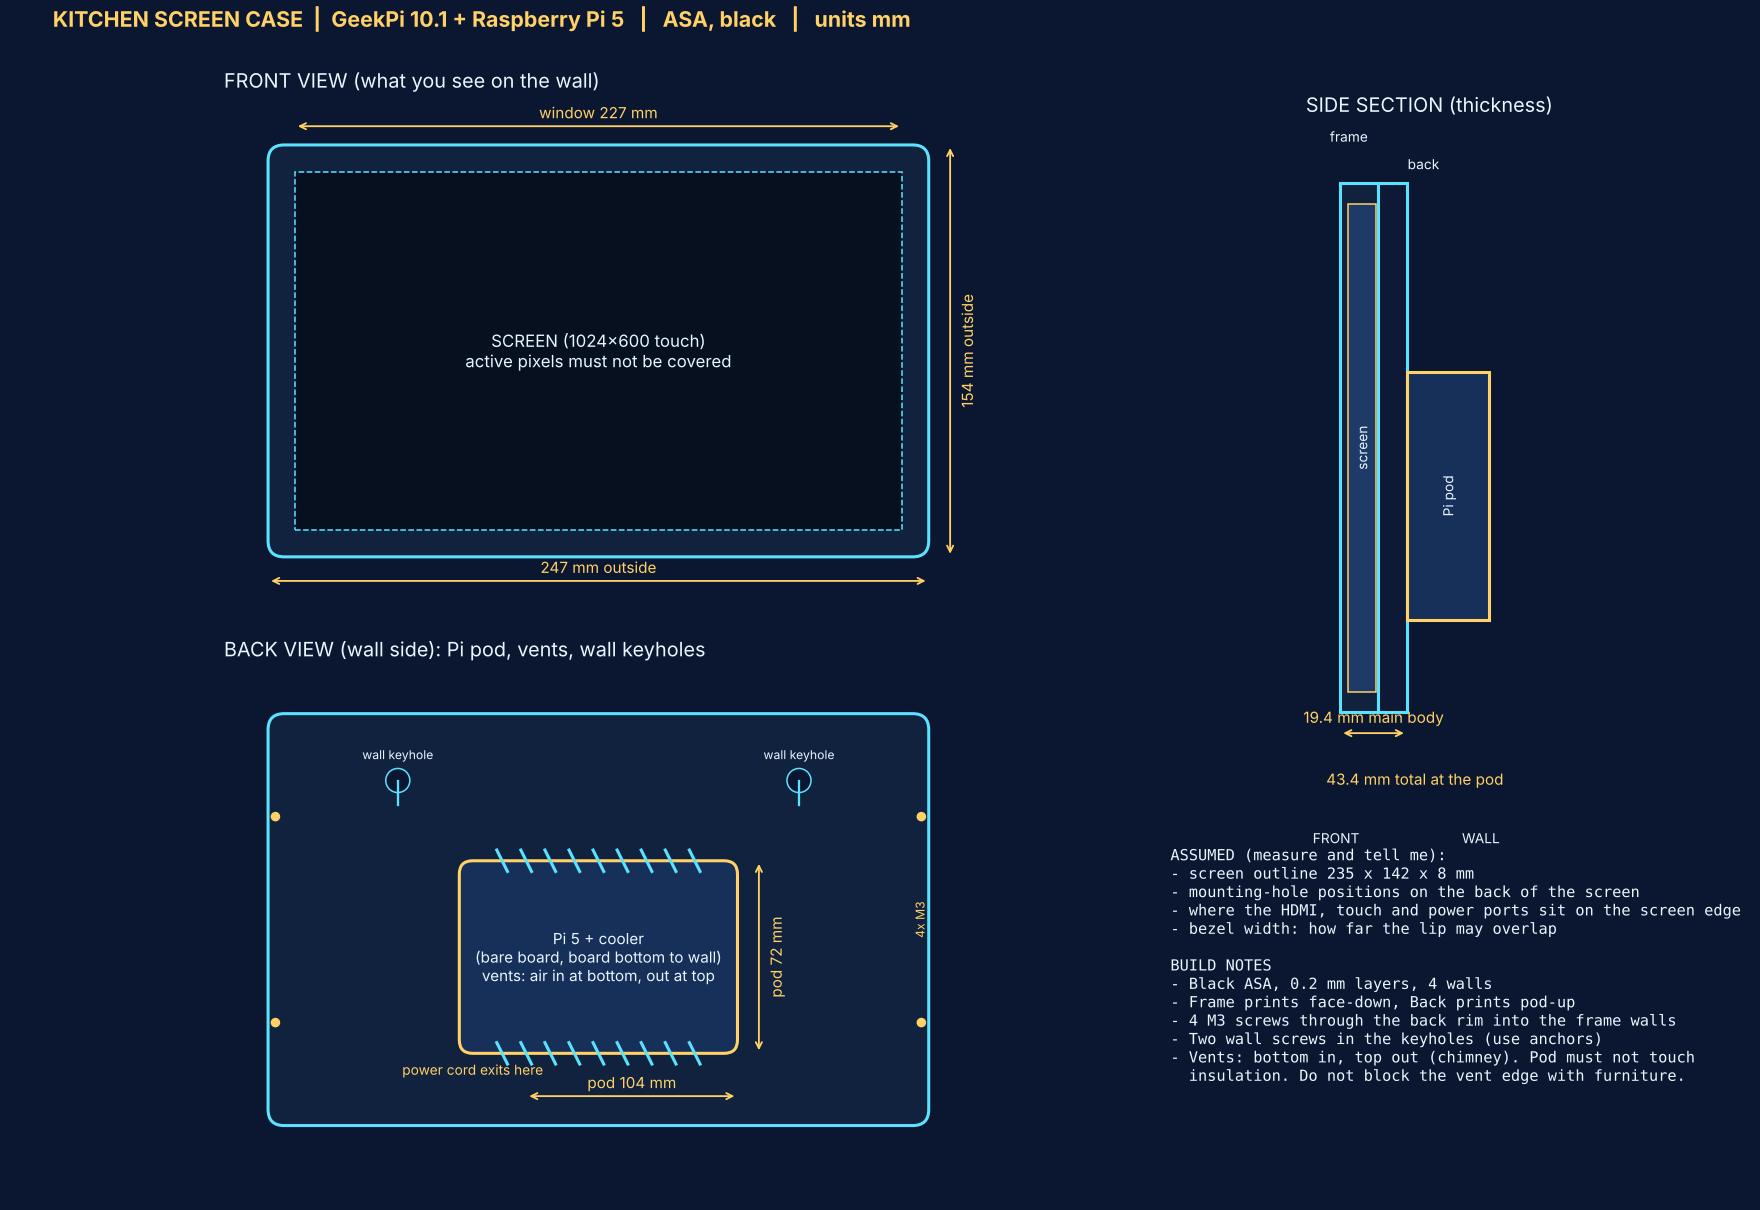
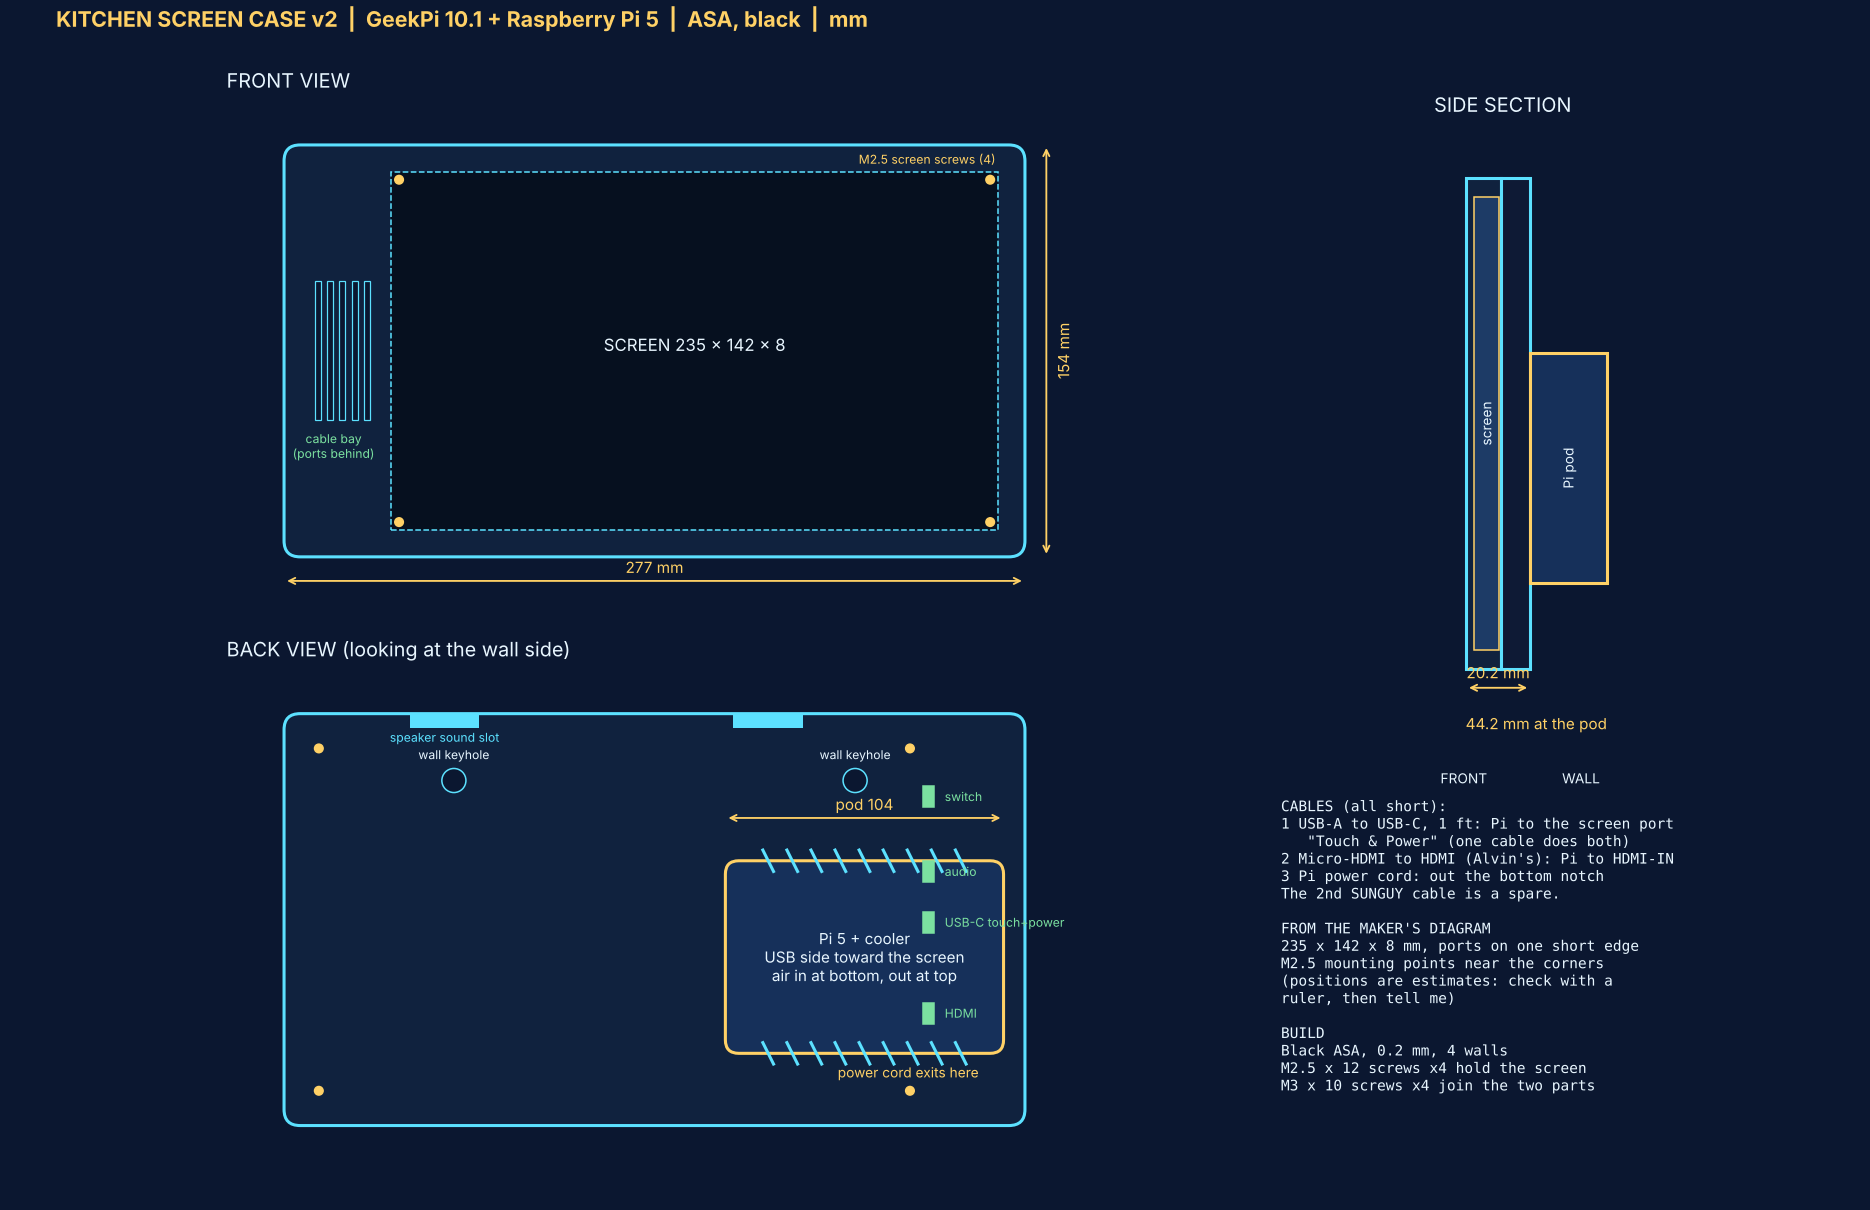
Kitchen screen case v2 with real screen data
Claude-Session: https://claude.ai/code/session_01VduVgCipjd86p1yCE67ftH

diff --git a/hardware/kitchen-screen-case/blueprint.py b/hardware/kitchen-screen-case/blueprint.py
@@ -1,54 +1,50 @@
 import matplotlib; matplotlib.use('Agg')
 import matplotlib.pyplot as plt
 from matplotlib.patches import FancyBboxPatch, Rectangle, Circle
-scr_w,scr_h,scr_t=235,142,8; fit=0.5; wall=5.5; back_t=2.4; rear=6; lip=2.4; bez=4
-pod_w,pod_h,pod_d=104,72,24; pod_y=-14; kx=150; ky=52
-ow=scr_w+2*(fit+wall); oh=scr_h+2*(fit+wall); fd=lip+scr_t+0.6; bd=back_t+rear
-tot=fd+bd+pod_d
-BG='#0b1730'; LN='#5ce1ff'; AC='#ffd166'; TX='#e8f6ff'
-fig=plt.figure(figsize=(16,11),facecolor=BG)
-def dim_h(ax,x0,x1,y,txt):
-    ax.annotate('',xy=(x0,y),xytext=(x1,y),arrowprops=dict(arrowstyle='<->',color=AC,lw=1.2)); ax.text((x0+x1)/2,y+3,txt,color=AC,ha='center',fontsize=10)
-def dim_v(ax,x,y0,y1,txt):
-    ax.annotate('',xy=(x,y0),xytext=(x,y1),arrowprops=dict(arrowstyle='<->',color=AC,lw=1.2)); ax.text(x+3,(y0+y1)/2,txt,color=AC,va='center',fontsize=10,rotation=90)
-def setup(ax,title,xl,yl):
-    ax.set_facecolor(BG); ax.set_aspect('equal'); ax.set_xlim(*xl); ax.set_ylim(*yl); ax.axis('off'); ax.set_title(title,color=TX,fontsize=13,loc='left')
+scr_w,scr_h,scr_t=235,142,8; fit=0.5; wall=5.5; back_t=3.2; rear=6; lip=2.4; bez=4; bay=30
+pod_w,pod_h,pod_d=104,72,24; pod_y=-14; kx=150; ky=52; hin=7
+ow=scr_w+2*(fit+wall)+bay; oh=scr_h+2*(fit+wall); fd=lip+scr_t+0.6; bd=back_t+rear; tot=fd+bd+pod_d
+sx0=bay/2; pod_x=-ow/2+8+pod_w/2
+BG='#0b1730'; LN='#5ce1ff'; AC='#ffd166'; TX='#e8f6ff'; GR='#7be0a0'
+ports={'switch':25,'audio':53,'USB-C touch+power':72,'HDMI':106}
+fig=plt.figure(figsize=(17,11),facecolor=BG)
+def dim_h(ax,x0,x1,y,t,c=AC): ax.annotate('',xy=(x0,y),xytext=(x1,y),arrowprops=dict(arrowstyle='<->',color=c,lw=1.2)); ax.text((x0+x1)/2,y+3,t,color=c,ha='center',fontsize=10)
+def dim_v(ax,x,y0,y1,t): ax.annotate('',xy=(x,y0),xytext=(x,y1),arrowprops=dict(arrowstyle='<->',color=AC,lw=1.2)); ax.text(x+3,(y0+y1)/2,t,color=AC,va='center',fontsize=10,rotation=90)
+def setup(ax,title,xl,yl): ax.set_facecolor(BG); ax.set_aspect('equal'); ax.set_xlim(*xl); ax.set_ylim(*yl); ax.axis('off'); ax.set_title(title,color=TX,fontsize=13,loc='left')
+def case(ax,m=1):
+    ax.add_patch(FancyBboxPatch((-ow/2,-oh/2),ow,oh,boxstyle='round,pad=0,rounding_size=6',fc='#10223e',ec=LN,lw=2))
+X=lambda x,m: m*x
 # FRONT
-ax=fig.add_axes([0.03,0.50,0.62,0.42]); setup(ax,'FRONT VIEW (what you see on the wall)',(-140,140),(-95,95))
-ax.add_patch(FancyBboxPatch((-ow/2,-oh/2),ow,oh,boxstyle='round,pad=0,rounding_size=6',fc='#10223e',ec=LN,lw=2))
-ax.add_patch(Rectangle((-(scr_w-2*bez)/2,-(scr_h-2*bez)/2),scr_w-2*bez,scr_h-2*bez,fc='#06101f',ec=LN,lw=1,ls='--'))
-ax.text(0,0,'SCREEN (1024x600 touch)\nactive pixels must not be covered',color=TX,ha='center',va='center',fontsize=11)
-dim_h(ax,-ow/2,ow/2,-oh/2-9,f'{ow:.0f} mm outside'); dim_v(ax,ow/2+8,-oh/2,oh/2,f'{oh:.0f} mm outside')
-dim_h(ax,-(scr_w-2*bez)/2,(scr_w-2*bez)/2,oh/2+7,f'window {scr_w-2*bez:.0f} mm')
-# BACK
-ax=fig.add_axes([0.03,0.03,0.62,0.42]); setup(ax,'BACK VIEW (wall side): Pi pod, vents, wall keyholes',(-140,140),(-95,95))
-ax.add_patch(FancyBboxPatch((-ow/2,-oh/2),ow,oh,boxstyle='round,pad=0,rounding_size=6',fc='#10223e',ec=LN,lw=2))
-ax.add_patch(FancyBboxPatch((-pod_w/2,pod_y-pod_h/2),pod_w,pod_h,boxstyle='round,pad=0,rounding_size=5',fc='#16305a',ec=AC,lw=2))
-for sx in (-1,1):
-    ax.add_patch(Circle((sx*kx/2,ky),4.5,fc=BG,ec=LN)); ax.plot([sx*kx/2,sx*kx/2],[ky,ky-9],color=LN)
-    ax.text(sx*kx/2,ky+8,'wall keyhole',color=TX,ha='center',fontsize=8)
-import numpy as np
+ax=fig.add_axes([0.03,0.50,0.64,0.42]); setup(ax,'FRONT VIEW',(-160,160),(-95,95)); case(ax)
+ax.add_patch(Rectangle((sx0-(scr_w-2*bez)/2,-(scr_h-2*bez)/2),scr_w-2*bez,scr_h-2*bez,fc='#06101f',ec=LN,lw=1,ls='--'))
+for i in range(5): ax.add_patch(Rectangle((-ow/2+wall+6+i*4.6,-26),2.2,52,fc=BG,ec=LN,lw=0.8))
+ax.text(sx0,0,'SCREEN 235 x 142 x 8',color=TX,ha='center',fontsize=11); ax.text(-ow/2+wall+bay/2-2,-40,'cable bay\n(ports behind)',color=GR,ha='center',fontsize=8)
+dim_h(ax,-ow/2,ow/2,-oh/2-9,f'{ow:.0f} mm'); dim_v(ax,ow/2+8,-oh/2,oh/2,f'{oh:.0f} mm')
+for i,(x,y) in enumerate([(sx0+sx*(scr_w/2-hin),sy*(scr_h/2-hin)) for sx in(-1,1) for sy in(-1,1)]): ax.add_patch(Circle((x,y),1.6,fc=AC,ec=AC))
+ax.text(sx0+(scr_w/2-hin)+2,scr_h/2-hin+6,'M2.5 screen screws (4)',color=AC,fontsize=8,ha='right')
+# BACK (mirrored: how it looks from the wall side)
+ax=fig.add_axes([0.03,0.03,0.64,0.42]); setup(ax,'BACK VIEW (looking at the wall side)',(-160,160),(-95,95)); case(ax)
+mx=lambda x:-x
+ax.add_patch(FancyBboxPatch((mx(pod_x)-pod_w/2,pod_y-pod_h/2),pod_w,pod_h,boxstyle='round,pad=0,rounding_size=5',fc='#16305a',ec=AC,lw=2))
+ax.text(mx(pod_x),pod_y,'Pi 5 + cooler\nUSB side toward the screen\nair in at bottom, out at top',color=TX,ha='center',va='center',fontsize=10)
 for i in range(-4,5):
-    x=i*9
-    ax.plot([x-1.3-3.5,x+1.3+3.5],[pod_y+pod_h/2-2,pod_y+pod_h/2-2],color=LN,lw=3) if False else None
-    ax.plot([x-2,x+2],[pod_y+pod_h/2+4,pod_y+pod_h/2-4],color=LN,lw=2); ax.plot([x-2,x+2],[pod_y-pod_h/2+4,pod_y-pod_h/2-4],color=LN,lw=2)
-ax.text(0,pod_y,'Pi 5 + cooler\n(bare board, board bottom to wall)\nvents: air in at bottom, out at top',color=TX,ha='center',va='center',fontsize=10)
-ax.text(-pod_w/2+5,pod_y-pod_h/2-8,'power cord exits here',color=AC,ha='center',fontsize=9)
-for p in [(-1,-.5),(-1,.5),(1,-.5),(1,.5)]:
-    ax.add_patch(Circle((p[0]*(ow/2-wall/2),p[1]*oh/2),1.5,fc=AC,ec=AC))
-ax.text(ow/2-6,0,'4x M3',color=AC,fontsize=8,rotation=90,va='center')
-dim_h(ax,-pod_w/2+25,pod_w/2,pod_y-pod_h/2-16,f'pod {pod_w} mm'); dim_v(ax,pod_w/2+8,pod_y-pod_h/2,pod_y+pod_h/2,f'pod {pod_h} mm')
-# SIDE SECTION
-ax=fig.add_axes([0.67,0.36,0.31,0.54]); setup(ax,'SIDE SECTION (thickness)',(-10,75),(-95,95))
-z0=0
-ax.add_patch(Rectangle((0,-oh/2),fd,oh,fc='#10223e',ec=LN,lw=2)); ax.text(fd/2-3,oh/2+12,'frame',color=TX,ha='center',fontsize=9)
-ax.add_patch(Rectangle((lip,-scr_h/2),scr_t,scr_h,fc='#1d3b66',ec=AC,lw=1)); ax.text(lip+scr_t/2,0,'screen',color=TX,rotation=90,ha='center',va='center',fontsize=9)
-ax.add_patch(Rectangle((fd,-oh/2),bd,oh,fc='#0e1a35',ec=LN,lw=2)); ax.text(fd+bd/2+9,oh/2+4,'back',color=TX,ha='center',fontsize=9)
-ax.add_patch(Rectangle((fd+bd,pod_y-pod_h/2),pod_d,pod_h,fc='#16305a',ec=AC,lw=2)); ax.text(fd+bd+pod_d/2,pod_y,'Pi pod',color=TX,rotation=90,ha='center',va='center',fontsize=9)
-ax.text(-8,-oh/2-38,'FRONT',color=TX,fontsize=9); ax.text(fd+bd+pod_d-8,-oh/2-38,'WALL',color=TX,fontsize=9)
-dim_h(ax,0,fd+bd,-oh/2-6,f'{fd+bd:.1f} mm main body'); dim_h(ax,0,tot,-oh/2-24,f'{tot:.1f} mm total at the pod')
-# NOTES
-fig.text(0.665,0.30,'ASSUMED (measure and tell me):\n- screen outline 235 x 142 x 8 mm\n- mounting-hole positions on the back of the screen\n- where the HDMI, touch and power ports sit on the screen edge\n- bezel width: how far the lip may overlap\n\nBUILD NOTES\n- Black ASA, 0.2 mm layers, 4 walls\n- Frame prints face-down, Back prints pod-up\n- 4 M3 screws through the back rim into the frame walls\n- Two wall screws in the keyholes (use anchors)\n- Vents: bottom in, top out (chimney). Pod must not touch\n  insulation. Do not block the vent edge with furniture.',color=TX,fontsize=10,va='top',family='monospace')
-fig.text(0.03,0.995,'KITCHEN SCREEN CASE  |  GeekPi 10.1 + Raspberry Pi 5   |   ASA, black   |   units mm',color=AC,fontsize=14,weight='bold',va='top')
-fig.savefig('blueprint.png',dpi=110,facecolor=BG)
-print(ow,oh,fd+bd,tot)
+    x=mx(pod_x)+i*9; ax.plot([x-2,x+2],[pod_y+pod_h/2+4,pod_y+pod_h/2-4],color=LN,lw=2); ax.plot([x-2,x+2],[pod_y-pod_h/2+4,pod_y-pod_h/2-4],color=LN,lw=2)
+for sx in(-1,1): ax.add_patch(Circle((sx*kx/2,ky),4.5,fc=BG,ec=LN)); ax.text(sx*kx/2,ky+8,'wall keyhole',color=TX,ha='center',fontsize=8)
+for x,y in [(mx(sx0+sx*(scr_w/2-hin)),sy*(scr_h/2-hin)) for sx in(-1,1) for sy in(-1,1)]: ax.add_patch(Circle((x,y),1.6,fc=AC,ec=AC))
+# screen edge ports (they are on the bay side, which is the right side in this view)
+xe=mx(sx0-scr_w/2)
+for n,d in ports.items():
+    y=scr_h/2-d; ax.add_patch(Rectangle((xe-2,y-4),4,8,fc=GR,ec=GR)); ax.text(xe+6,y,n,color=GR,fontsize=8,va='center')
+for c in (sx0+(scr_w/2-54), sx0+(scr_w/2-175)):
+    ax.add_patch(Rectangle((mx(c)-13,oh/2-wall),26,wall,fc=LN)); 
+ax.text(mx(sx0+(scr_w/2-54)),oh/2-wall-5,'speaker sound slot',color=LN,fontsize=8,ha='center')
+ax.text(mx(pod_x)+pod_w/2-62,pod_y-pod_h/2-9,'power cord exits here',color=AC,fontsize=9)
+dim_h(ax,mx(pod_x)-pod_w/2,mx(pod_x)+pod_w/2,pod_y+pod_h/2+16,f'pod {pod_w}'); 
+# SIDE
+ax=fig.add_axes([0.69,0.40,0.29,0.50]); setup(ax,'SIDE SECTION',(-10,70),(-95,95))
+ax.add_patch(Rectangle((0,-oh/2),fd,oh,fc='#10223e',ec=LN,lw=2)); ax.add_patch(Rectangle((lip,-scr_h/2),scr_t,scr_h,fc='#1d3b66',ec=AC)); ax.text(lip+scr_t/2,0,'screen',color=TX,rotation=90,va='center',ha='center',fontsize=9)
+ax.add_patch(Rectangle((fd,-oh/2),bd,oh,fc='#0e1a35',ec=LN,lw=2)); ax.add_patch(Rectangle((fd+bd,pod_y-pod_h/2),pod_d,pod_h,fc='#16305a',ec=AC,lw=2)); ax.text(fd+bd+pod_d/2,pod_y,'Pi pod',color=TX,rotation=90,va='center',ha='center',fontsize=9)
+dim_h(ax,0,fd+bd,-oh/2-6,f'{fd+bd:.1f} mm'); dim_h(ax,0,tot,-oh/2-22,f'{tot:.1f} mm at the pod'); ax.text(-8,-oh/2-36,'FRONT',color=TX,fontsize=9); ax.text(tot-14,-oh/2-36,'WALL',color=TX,fontsize=9)
+fig.text(0.685,0.34,'CABLES (all short):\n1 USB-A to USB-C, 1 ft: Pi to the screen port\n   "Touch & Power" (one cable does both)\n2 Micro-HDMI to HDMI (Alvin\'s): Pi to HDMI-IN\n3 Pi power cord: out the bottom notch\nThe 2nd SUNGUY cable is a spare.\n\nFROM THE MAKER\'S DIAGRAM\n235 x 142 x 8 mm, ports on one short edge\nM2.5 mounting points near the corners\n(positions are estimates: check with a\nruler, then tell me)\n\nBUILD\nBlack ASA, 0.2 mm, 4 walls\nM2.5 x 12 screws x4 hold the screen\nM3 x 10 screws x4 join the two parts',color=TX,fontsize=9.5,va='top',family='monospace')
+fig.text(0.03,0.995,'KITCHEN SCREEN CASE v2  |  GeekPi 10.1 + Raspberry Pi 5  |  ASA, black  |  mm',color=AC,fontsize=14,weight='bold',va='top')
+fig.savefig('blueprint.png',dpi=110,facecolor=BG); print(ow,oh,fd+bd,tot)

diff --git a/memory/buy-list.md b/memory/buy-list.md
@@ -19,6 +19,7 @@ Bought items stay here under "Bought" with the date. Nothing is deleted.
 | Kitchen screen (living room build) | 27W USB-C power supply (5V/5A) or 2-port charger that also feeds the screen | Pi 5 needs 5A; one cord out of the frame | 2026-11-08 |
 | Kitchen screen (living room build) | microSD 32GB+ (A2) | Pi OS | 2026-11-08 |
 | Kitchen screen (living room build) | Micro-HDMI to HDMI cable about 6 in; USB-A to USB-C cable about 6 in (touch) | Short internal cables, hidden in the 3D-printed ASA shell | 2026-11-08 |
+| Kitchen screen (living room build) | M2.5 and M3 screw assortment (M2.5 x 12 mm x4 for the screen, M3 x 10 mm x4 for the case halves), optional brass heat-set inserts | Screw the screen and the two case halves together | 2026-11-08 |
 | Pi hardening | Battery backup (UPS) for the Pi, separate small power supply, Ethernet run | Pi always on, independent of the big PC | 2026-11-07 |
 
 ## Bought

diff --git a/memory/changelog.md b/memory/changelog.md
@@ -1,6 +1,9 @@
 # Changelog: what Claude did (newest first)
 Claude adds an entry every time it changes something, so any conversation, Jarvis, or Kylar can see the history. Format: date, what, where, status (built / tested here / installed on Pi / confirmed by Kylar).
 
+## 2026-11-08 Kitchen screen case v2
+- Rebuilt around the maker's real dimensions and port layout (hardware/kitchen-screen-case). Added screw assortment to buy list. Status: draft, needs ruler check of mounting holes and a test print.
+
 ## 2026-11-08 Kitchen screen case draft
 - Added hardware/kitchen-screen-case (scad + blueprint). Status: draft, needs screen measurements and a test print; OpenSCAD compile not checked.
 

diff --git a/memory/projects/living-room-build.md b/memory/projects/living-room-build.md
@@ -51,3 +51,5 @@ Started 2026-11-07 (Kylar by voice, from a photo of the living room). Owner: Kyl
 
 ## Done
 (nothing yet)
+
+- 2026-11-08 case v2: real screen data (235x142x8; all ports on one short edge; ONE USB-C 'Touch & Power', full-size HDMI-IN, 3.5mm audio out; speakers on the rear top; M2.5 mounting points near the corners). Case now 277x154 mm, 20.2 mm slab, 44.2 mm at the pod, with a 30 mm cable bay on the port side, screen held by 4 M2.5 posts, speaker sound slots in the top rim. Only ONE USB cable is needed (2nd SUNGUY is spare). Hole positions are estimates from the diagram; not compiled in OpenSCAD yet.
